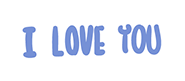
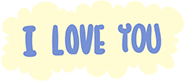
图片替换

diff --git a/css/pageC.css b/css/pageC.css
@@ -7,19 +7,19 @@
 .c_background_top {
 	width: 100%;
 	height: 71.6%;
-	background-image: url("http://img.mukewang.com/55ade19b0001d92c14410645.png");
+	background-image: url("../img/55ade19b0001d92c14410645.png");
 	background-size: 100% 100%
 }
 .c_background_middle {
 	width: 100%;
 	height: 13.1%;
-	background-image: url("http://img.mukewang.com/55ade1b3000135c114410118.png");
+	background-image: url("../img/55ade1b3000135c114410118.png");
 	background-size: 100% 100%
 }
 .c_background_botton {
 	width: 100%;
 	height: 15.3%;
-	background-image: url("http://img.mukewang.com/55ade1c30001db5d14410138.png");
+	background-image: url("../img/55ade1c30001db5d14410138.png");
 	background-size: 100% 100%
 }
 #snowflake {
@@ -62,7 +62,7 @@
 	}
 }
 .girl {
-	background: url(http://img.mukewang.com/55ade30d000100dc10570291.png) -755px -0px no-repeat;
+	background: url(../img/55ade30d000100dc10570291.png) -755px -0px no-repeat;
 	position: absolute;
 	right: 40%;
 	top: 37%;
@@ -156,14 +156,14 @@
 	height: 15px;
 	top: 13%;
 	left: 35%;
-	background: url(http://img.mukewang.com/55ade1e000010f2908540027.png) -261px -0px no-repeat
+	background: url(../img/55ade1e000010f2908540027.png) -261px -0px no-repeat
 }
 .water_2 {
 	width: 161px;
 	height: 9px;
 	top: 25%;
 	left: 45%;
-	background: url(http://img.mukewang.com/55ade1e000010f2908540027.png) -693px -0px no-repeat;
+	background: url(../img/55ade1e000010f2908540027.png) -693px -0px no-repeat;
 	-webkit-animation-delay: 2s;
 	-moz-animation-delay: 2s
 }
@@ -172,7 +172,7 @@
 	height: 29px;
 	top: 50%;
 	left: 15%;
-	background: url(http://img.mukewang.com/55ade1e000010f2908540027.png) -0px -0px no-repeat;
+	background: url(../img/55ade1e000010f2908540027.png) -0px -0px no-repeat;
 	-webkit-animation-delay: 1s;
 	-moz-animation-delay: 1s
 }
@@ -181,7 +181,7 @@
 	height: 12px;
 	top: 70%;
 	left: 30%;
-	background: url(http://img.mukewang.com/55ade1e000010f2908540027.png) -392px -0px no-repeat;
+	background: url(../img/55ade1e000010f2908540027.png) -392px -0px no-repeat;
 	-webkit-animation-delay: 3s;
 	-moz-animation-delay: 3s
 }
@@ -216,7 +216,7 @@
 	position: absolute;
 	width: 30px;
 	height: 31px;
-	background-image: url("http://img.mukewang.com/55ade1fe00016b8900300031.png");
+	background-image: url("../img/55ade1fe00016b8900300031.png");
 	-webkit-animation-name: flash;
 	-webkit-animation-timing-function: ease-in-out;
 	-webkit-animation-iteration-count: infinite;
@@ -281,13 +281,11 @@
 .logo {
 	width: 185px;
 	height: 81px;
-	background-image: url(http://img.mukewang.com/55ade2110001708401850081.png);
 	background-image: url(../img/love2.png);
 	z-index: 999999;
 	position: absolute;
 	left: 50%;
 	margin-left: -92.5px;
-	top: 30px;
 	top: 15px;
 	display: none
 }

diff --git a/css/pageB.css b/css/pageB.css
@@ -4,15 +4,15 @@
 .b_background {
 	width: 100%;
 	height: 100%;
-	background-image: url("http://img.mukewang.com/55ade06f00015a0d14410901.png");
+	background-image: url("../img/55ade06f00015a0d14410901.png");
 	background-size: 100% 100%;
 	position: absolute
 }
 .b_background_preload {
-	background: url("http://img.mukewang.com/55ade0be0001a37914410901.png") no-repeat -9999px -9999px
+	background: url("../img/55ade0be0001a37914410901.png") no-repeat -9999px -9999px
 }
 .lamp-bright {
-	background-image: url("http://img.mukewang.com/55ade0be0001a37914410901.png")
+	background-image: url("../img/55ade0be0001a37914410901.png")
 }
 .shop {
 	width: 39.5%;
@@ -37,12 +37,12 @@
 }
 .door-left {
 	left: 0;
-	background: url(http://img.mukewang.com/55ade1140001050d00910231.png);
+	background: url(../img/55ade1140001050d00910231.png);
 	background-size: 100% 100%
 }
 .door-right {
 	left: 50%;
-	background: url(http://img.mukewang.com/55ade12100019f5b00910231.png);
+	background: url(../img/55ade12100019f5b00910231.png);
 	background-size: 100% 100%
 }
 .bird {
@@ -52,7 +52,7 @@
 	position: absolute;
 	z-index: 10;
 	right: -91px;
-	background: url(http://img.mukewang.com/55ade1700001b38302730071.png) -182px 0 no-repeat
+	background: url(../img/55ade1700001b38302730071.png) -182px 0 no-repeat
 }
 .birdFly {
 	-webkit-animation-name: bird-slow;

diff --git a/css/pageA.css b/css/pageA.css
@@ -12,13 +12,13 @@
 .a_background_middle {
 	width: 100%;
 	height: 13.1%;
-	background-image: url("http://img.mukewang.com/55addf800001ff2e14410118.png");
+	background-image: url("../img/55addf800001ff2e14410118.png");
 	background-size: 100% 100%
 }
 .a_background_botton {
 	width: 100%;
 	height: 15.3%;
-	background-image: url("http://img.mukewang.com/55addfcb000189b314410138.png");
+	background-image: url("../img/55addfcb000189b314410138.png");
 	background-size: 100% 100%
 }
 .cloud {
@@ -42,7 +42,7 @@
 	width: 100%;
 	height: 100%;
 	right: -5%;
-	background: url("http://img.mukewang.com/55addff500016df503010140.png") no-repeat;
+	background: url("../img/55addff500016df503010140.png") no-repeat;
 	-webkit-animation-name: largeCloud;
 	-webkit-animation-duration: 50s;
 	-webkit-animation-iteration: infinite;
@@ -83,7 +83,7 @@
 	}
 }
 #sun {
-	background: url("http://img.mukewang.com/55ade004000106c202010201.png") no-repeat;
+	background: url("../img/55ade004000106c202010201.png") no-repeat;
 	position: absolute;
 	z-index: 1;
 	top: -30px;
